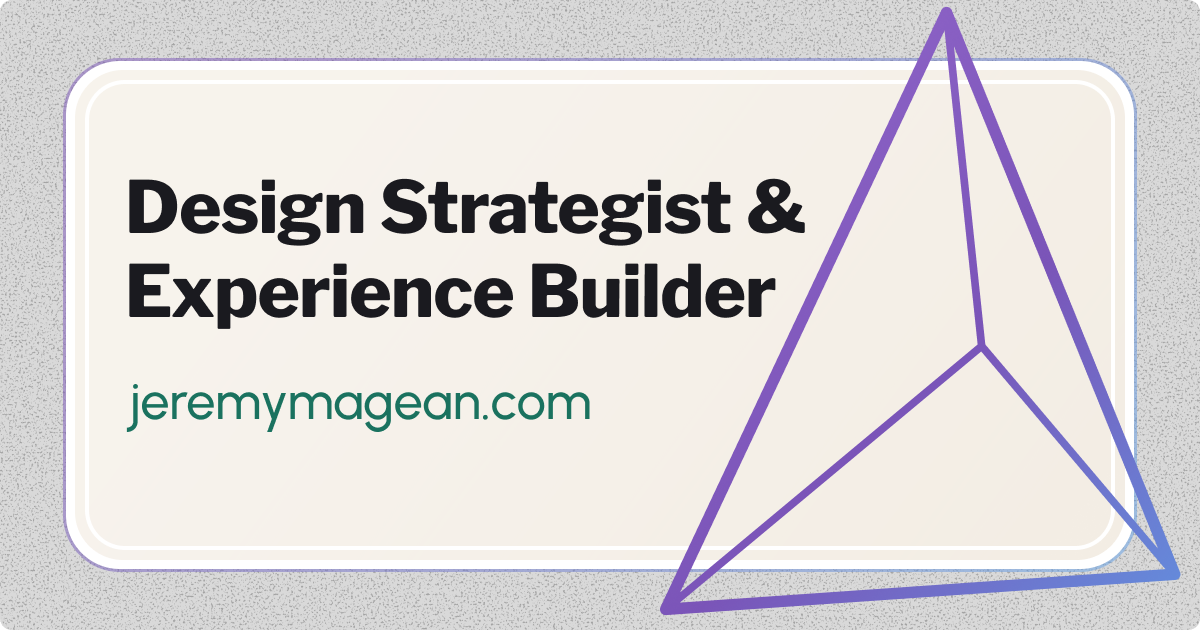
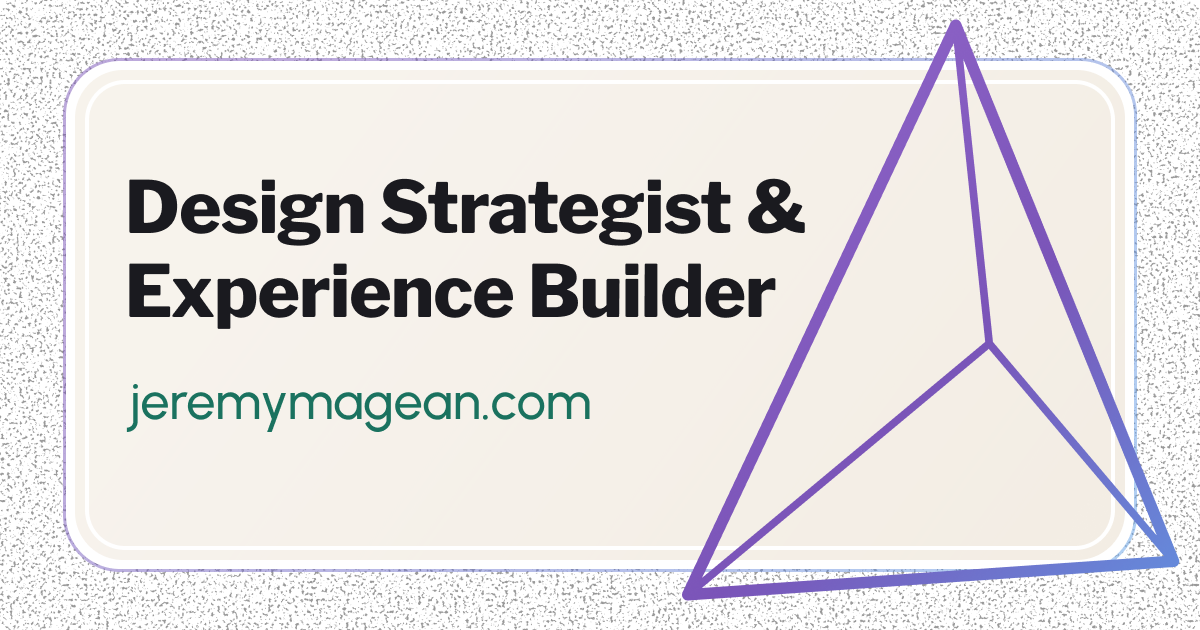
og:title update to jeremymagean.com

diff --git a/index.html b/index.html
@@ -8,13 +8,13 @@
 <link href="https://fonts.googleapis.com/css2?family=DM+Serif+Display:ital@0;1&family=DM+Sans:wght@300;400;500;700;800&family=DM+Mono:wght@300;400;500&family=Libre+Franklin:ital,wght@0,300;0,400;0,500;1,400&family=Urbanist:wght@500;600;700;800&display=swap" rel="stylesheet">
 <link rel="stylesheet" href="css/styles.css">
 <link rel="icon" type="image/svg+xml" href="/favicon.svg">
-<meta property="og:title" content="Jeremy Magean — Design Strategist &amp; Experience Builder">
+<meta property="og:title" content="jeremymagean.com">
 <meta property="og:description" content="Translating design intent into real world solutions.">
 <meta property="og:image" content="https://jeremymagean.com/images/og-image.png">
 <meta property="og:url" content="https://jeremymagean.com/">
 <meta property="og:type" content="website">
 <meta name="twitter:card" content="summary_large_image">
-<meta name="twitter:title" content="Jeremy Magean — Design Strategist &amp; Experience Builder">
+<meta name="twitter:title" content="jeremymagean.com">
 <meta name="twitter:description" content="Translating design intent into real world solutions.">
 <meta name="twitter:image" content="https://jeremymagean.com/images/og-image.png">
 <style>

diff --git a/info.html b/info.html
@@ -8,13 +8,13 @@
 <link href="https://fonts.googleapis.com/css2?family=DM+Serif+Display:ital@0;1&family=DM+Sans:wght@300;400;500;700;800&family=DM+Mono:wght@300;400;500&family=Libre+Franklin:ital,wght@0,300;0,400;0,500;1,400&family=Urbanist:wght@500;600;700;800&display=swap" rel="stylesheet">
 <link rel="stylesheet" href="css/styles.css">
 <link rel="icon" type="image/svg+xml" href="/favicon.svg">
-<meta property="og:title" content="Jeremy Magean — Design Strategist &amp; Experience Builder">
+<meta property="og:title" content="jeremymagean.com">
 <meta property="og:description" content="Translating design intent into real world solutions.">
 <meta property="og:image" content="https://jeremymagean.com/images/og-image.png">
 <meta property="og:url" content="https://jeremymagean.com/info.html">
 <meta property="og:type" content="website">
 <meta name="twitter:card" content="summary_large_image">
-<meta name="twitter:title" content="Jeremy Magean — Design Strategist &amp; Experience Builder">
+<meta name="twitter:title" content="jeremymagean.com">
 <meta name="twitter:description" content="Translating design intent into real world solutions.">
 <meta name="twitter:image" content="https://jeremymagean.com/images/og-image.png">
 <style>

diff --git a/lab.html b/lab.html
@@ -8,13 +8,13 @@
 <link href="https://fonts.googleapis.com/css2?family=DM+Serif+Display:ital@0;1&family=DM+Sans:wght@300;400;500;700;800&family=DM+Mono:wght@300;400;500&family=Libre+Franklin:ital,wght@0,300;0,400;0,500;1,400&family=Urbanist:wght@500;600;700;800&display=swap" rel="stylesheet">
 <link rel="stylesheet" href="css/styles.css">
 <link rel="icon" type="image/svg+xml" href="/favicon.svg">
-<meta property="og:title" content="Jeremy Magean — Design Strategist &amp; Experience Builder">
+<meta property="og:title" content="jeremymagean.com">
 <meta property="og:description" content="Translating design intent into real world solutions.">
 <meta property="og:image" content="https://jeremymagean.com/images/og-image.png">
 <meta property="og:url" content="https://jeremymagean.com/lab.html">
 <meta property="og:type" content="website">
 <meta name="twitter:card" content="summary_large_image">
-<meta name="twitter:title" content="Jeremy Magean — Design Strategist &amp; Experience Builder">
+<meta name="twitter:title" content="jeremymagean.com">
 <meta name="twitter:description" content="Translating design intent into real world solutions.">
 <meta name="twitter:image" content="https://jeremymagean.com/images/og-image.png">
 <style>

diff --git a/thoughts.html b/thoughts.html
@@ -8,13 +8,13 @@
 <link href="https://fonts.googleapis.com/css2?family=DM+Serif+Display:ital@0;1&family=DM+Sans:wght@300;400;500;700;800&family=DM+Mono:wght@300;400;500&family=Libre+Franklin:ital,wght@0,300;0,400;0,500;1,400&family=Urbanist:wght@500;600;700;800&display=swap" rel="stylesheet">
 <link rel="stylesheet" href="css/styles.css">
 <link rel="icon" type="image/svg+xml" href="/favicon.svg">
-<meta property="og:title" content="Jeremy Magean — Design Strategist &amp; Experience Builder">
+<meta property="og:title" content="jeremymagean.com">
 <meta property="og:description" content="Translating design intent into real world solutions.">
 <meta property="og:image" content="https://jeremymagean.com/images/og-image.png">
 <meta property="og:url" content="https://jeremymagean.com/thoughts.html">
 <meta property="og:type" content="website">
 <meta name="twitter:card" content="summary_large_image">
-<meta name="twitter:title" content="Jeremy Magean — Design Strategist &amp; Experience Builder">
+<meta name="twitter:title" content="jeremymagean.com">
 <meta name="twitter:description" content="Translating design intent into real world solutions.">
 <meta name="twitter:image" content="https://jeremymagean.com/images/og-image.png">
 <style>

diff --git a/work/building-this-portfolio/index.html b/work/building-this-portfolio/index.html
@@ -8,13 +8,13 @@
 <link href="https://fonts.googleapis.com/css2?family=DM+Sans:ital,wght@0,300;0,400;0,500;1,300;1,400;1,500&family=DM+Mono:wght@300;400&family=Libre+Franklin:ital,wght@0,300;0,400;0,500;1,400&family=Urbanist:wght@500;600;700;800&display=swap" rel="stylesheet">
 <link rel="stylesheet" href="../../css/styles.css">
 <link rel="icon" type="image/svg+xml" href="/favicon.svg">
-<meta property="og:title" content="Jeremy Magean — Design Strategist &amp; Experience Builder">
+<meta property="og:title" content="jeremymagean.com">
 <meta property="og:description" content="Translating design intent into real world solutions.">
 <meta property="og:image" content="https://jeremymagean.com/images/og-image.png">
 <meta property="og:url" content="https://jeremymagean.com/work/building-this-portfolio/">
 <meta property="og:type" content="website">
 <meta name="twitter:card" content="summary_large_image">
-<meta name="twitter:title" content="Jeremy Magean — Design Strategist &amp; Experience Builder">
+<meta name="twitter:title" content="jeremymagean.com">
 <meta name="twitter:description" content="Translating design intent into real world solutions.">
 <meta name="twitter:image" content="https://jeremymagean.com/images/og-image.png">
 <style>

diff --git a/work/flytedesk/index.html b/work/flytedesk/index.html
@@ -8,13 +8,13 @@
 <link href="https://fonts.googleapis.com/css2?family=DM+Sans:ital,wght@0,300;0,400;0,500;1,300;1,400;1,500&family=DM+Mono:wght@300;400&family=Libre+Franklin:ital,wght@0,300;0,400;0,500;1,400&family=Urbanist:wght@500;600;700;800&display=swap" rel="stylesheet">
 <link rel="stylesheet" href="../../css/styles.css">
 <link rel="icon" type="image/svg+xml" href="/favicon.svg">
-<meta property="og:title" content="Jeremy Magean — Design Strategist &amp; Experience Builder">
+<meta property="og:title" content="jeremymagean.com">
 <meta property="og:description" content="Translating design intent into real world solutions.">
 <meta property="og:image" content="https://jeremymagean.com/images/og-image.png">
 <meta property="og:url" content="https://jeremymagean.com/work/flytedesk/">
 <meta property="og:type" content="website">
 <meta name="twitter:card" content="summary_large_image">
-<meta name="twitter:title" content="Jeremy Magean — Design Strategist &amp; Experience Builder">
+<meta name="twitter:title" content="jeremymagean.com">
 <meta name="twitter:description" content="Translating design intent into real world solutions.">
 <meta name="twitter:image" content="https://jeremymagean.com/images/og-image.png">
 <style>

diff --git a/work/journeyid/index.html b/work/journeyid/index.html
@@ -8,13 +8,13 @@
 <link href="https://fonts.googleapis.com/css2?family=DM+Sans:ital,wght@0,300;0,400;0,500;1,300;1,400;1,500&family=DM+Mono:wght@300;400&family=Libre+Franklin:ital,wght@0,300;0,400;0,500;1,400&family=Urbanist:wght@500;600;700;800&display=swap" rel="stylesheet">
 <link rel="stylesheet" href="../../css/styles.css">
 <link rel="icon" type="image/svg+xml" href="/favicon.svg">
-<meta property="og:title" content="Jeremy Magean — Design Strategist &amp; Experience Builder">
+<meta property="og:title" content="jeremymagean.com">
 <meta property="og:description" content="Translating design intent into real world solutions.">
 <meta property="og:image" content="https://jeremymagean.com/images/og-image.png">
 <meta property="og:url" content="https://jeremymagean.com/work/journeyid/">
 <meta property="og:type" content="website">
 <meta name="twitter:card" content="summary_large_image">
-<meta name="twitter:title" content="Jeremy Magean — Design Strategist &amp; Experience Builder">
+<meta name="twitter:title" content="jeremymagean.com">
 <meta name="twitter:description" content="Translating design intent into real world solutions.">
 <meta name="twitter:image" content="https://jeremymagean.com/images/og-image.png">
 <style>

diff --git a/work/nexthealth-technologies/index.html b/work/nexthealth-technologies/index.html
@@ -8,13 +8,13 @@
 <link href="https://fonts.googleapis.com/css2?family=DM+Sans:ital,wght@0,300;0,400;0,500;1,300;1,400;1,500&family=DM+Mono:wght@300;400&family=Libre+Franklin:ital,wght@0,300;0,400;0,500;1,400&family=Urbanist:wght@500;600;700;800&display=swap" rel="stylesheet">
 <link rel="stylesheet" href="../../css/styles.css">
 <link rel="icon" type="image/svg+xml" href="/favicon.svg">
-<meta property="og:title" content="Jeremy Magean — Design Strategist &amp; Experience Builder">
+<meta property="og:title" content="jeremymagean.com">
 <meta property="og:description" content="Translating design intent into real world solutions.">
 <meta property="og:image" content="https://jeremymagean.com/images/og-image.png">
 <meta property="og:url" content="https://jeremymagean.com/work/nexthealth-technologies/">
 <meta property="og:type" content="website">
 <meta name="twitter:card" content="summary_large_image">
-<meta name="twitter:title" content="Jeremy Magean — Design Strategist &amp; Experience Builder">
+<meta name="twitter:title" content="jeremymagean.com">
 <meta name="twitter:description" content="Translating design intent into real world solutions.">
 <meta name="twitter:image" content="https://jeremymagean.com/images/og-image.png">
 <style>

diff --git a/work/wowza-video/index.html b/work/wowza-video/index.html
@@ -8,13 +8,13 @@
 <link href="https://fonts.googleapis.com/css2?family=DM+Sans:ital,wght@0,300;0,400;0,500;1,300;1,400;1,500&family=DM+Mono:wght@300;400&family=Libre+Franklin:ital,wght@0,300;0,400;0,500;1,400&family=Urbanist:wght@500;600;700;800&display=swap" rel="stylesheet">
 <link rel="stylesheet" href="../../css/styles.css">
 <link rel="icon" type="image/svg+xml" href="/favicon.svg">
-<meta property="og:title" content="Jeremy Magean — Design Strategist &amp; Experience Builder">
+<meta property="og:title" content="jeremymagean.com">
 <meta property="og:description" content="Translating design intent into real world solutions.">
 <meta property="og:image" content="https://jeremymagean.com/images/og-image.png">
 <meta property="og:url" content="https://jeremymagean.com/work/wowza-video/">
 <meta property="og:type" content="website">
 <meta name="twitter:card" content="summary_large_image">
-<meta name="twitter:title" content="Jeremy Magean — Design Strategist &amp; Experience Builder">
+<meta name="twitter:title" content="jeremymagean.com">
 <meta name="twitter:description" content="Translating design intent into real world solutions.">
 <meta name="twitter:image" content="https://jeremymagean.com/images/og-image.png">
 <style>